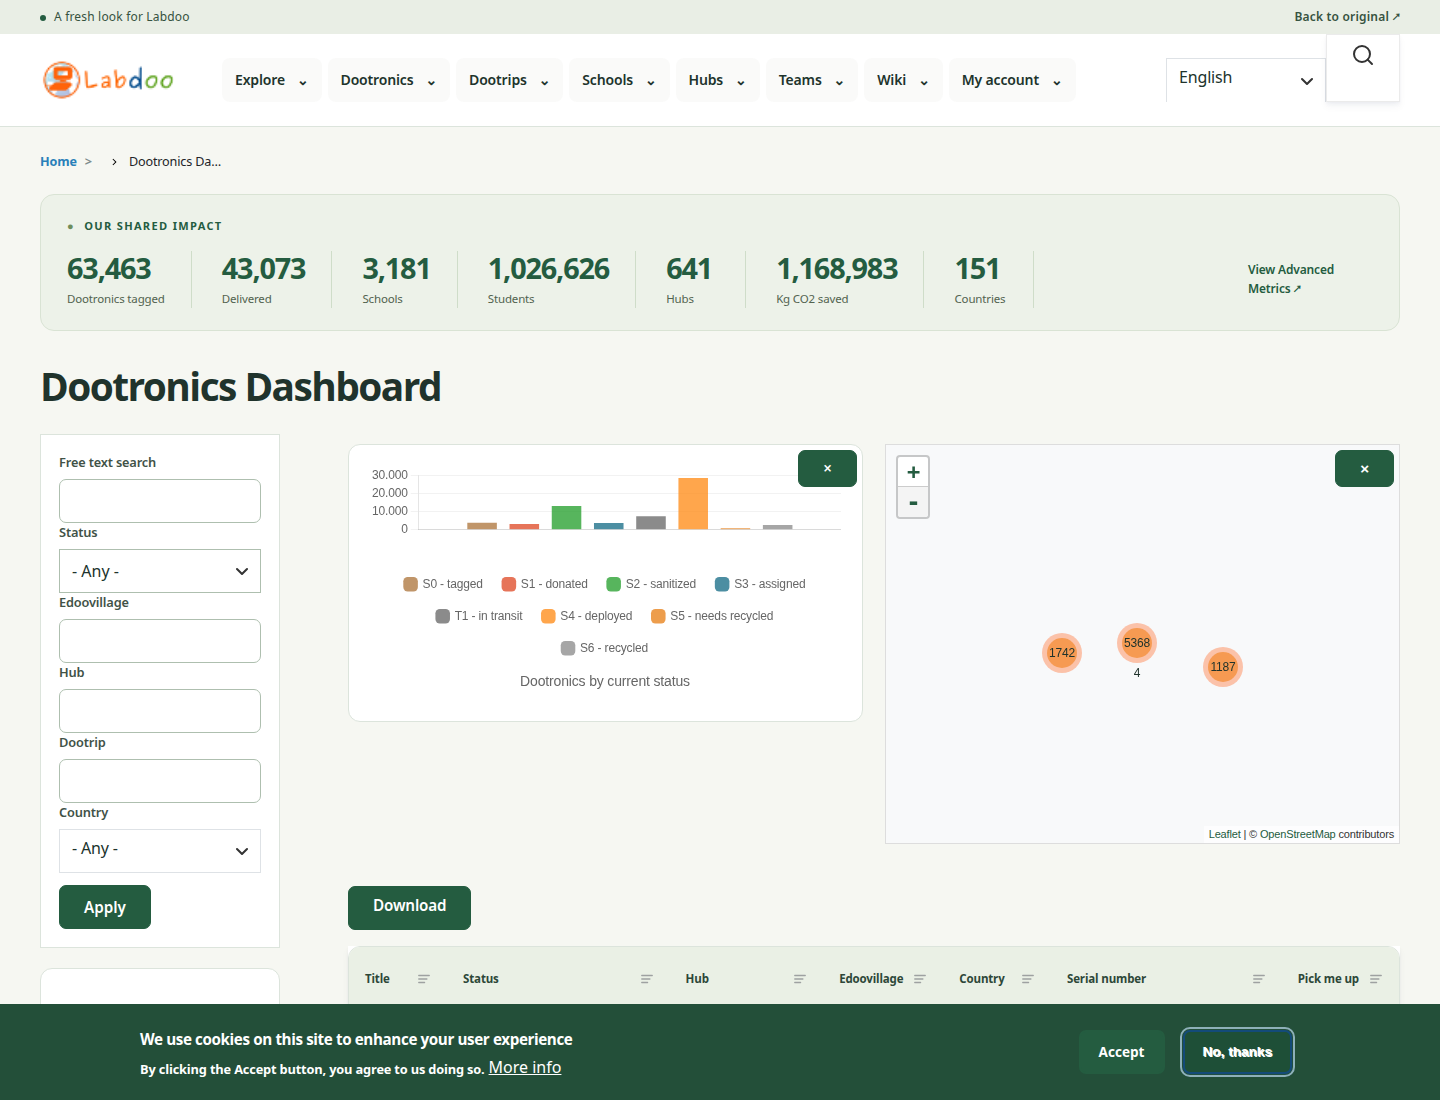
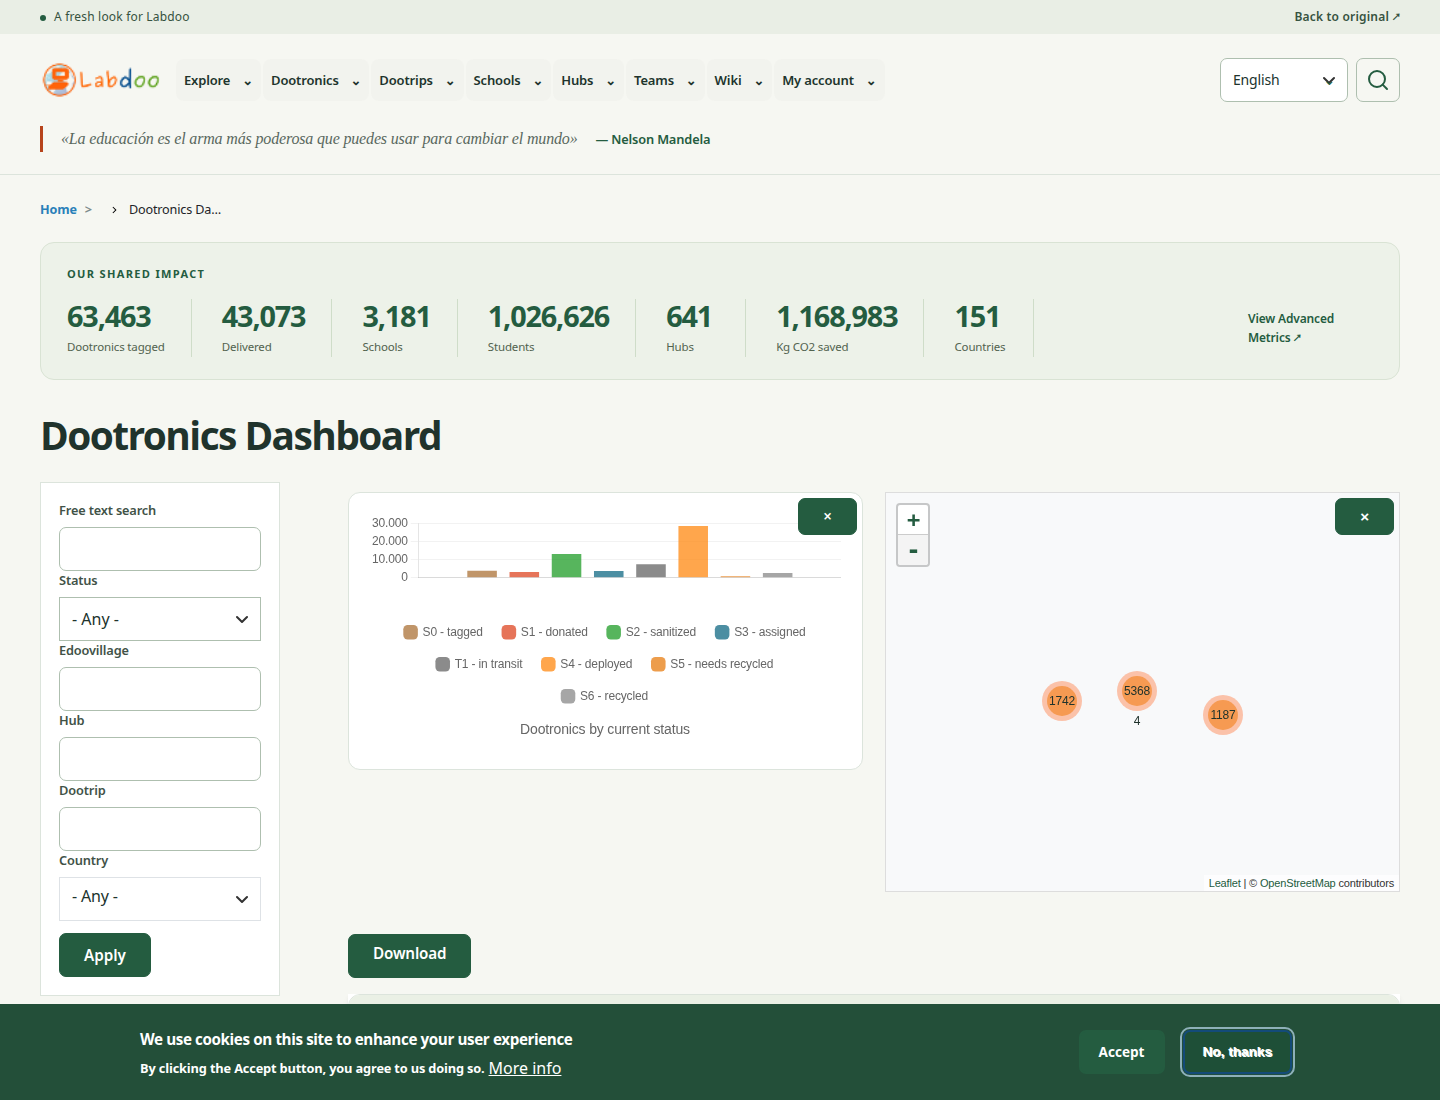
Refine Next header controls navigation and transparent footer

diff --git a/web/themes/custom/labdoo_next/css/labdoo-next.css b/web/themes/custom/labdoo_next/css/labdoo-next.css
@@ -68,21 +68,21 @@ body.labdoo-next {
   font-weight: 600;
 }
 .labdoo-next .ldn-header {
-  background: var(--ldn-paper);
+  background: var(--ldn-canvas) !important;
   border-bottom: 1px solid var(--ldn-line);
 }
 .labdoo-next .ldn-header__inner {
   min-height: 92px;
-  display: flex;
+  display: grid;
+  grid-template-columns: 120px minmax(0, 1fr) auto;
   align-items: center;
-  gap: 28px;
-  flex-wrap: wrap;
+  gap: 16px;
 }
 .labdoo-next .ldn-brand {
   display: inline-flex;
   align-items: center;
   flex-shrink: 0;
-  margin-inline-end: 20px;
+  margin-inline-end: 0;
 }
 .labdoo-next .ldn-quote {
   display: flex;
@@ -117,12 +117,12 @@ body.labdoo-next {
   white-space: nowrap;
 }
 .labdoo-next .ldn-brand img {
-  width: 134px;
+  width: 120px;
   height: auto;
   display: block;
 }
 .labdoo-next .ldn-navigation {
-  flex: 1;
+  min-width: 0;
 }
 .labdoo-next .ldn-navigation > .block {
   margin: 0;
@@ -135,8 +135,8 @@ body.labdoo-next {
   list-style: none;
   display: flex;
   align-items: center;
-  flex-wrap: wrap;
-  gap: 6px;
+  flex-wrap: nowrap;
+  gap: 2px;
   padding: 0;
   margin: 0;
 }
@@ -150,9 +150,9 @@ body.labdoo-next {
   align-items: center;
   justify-content: space-between;
   gap: 12px;
-  padding: 12px 13px;
+  padding: 11px 8px;
   color: var(--ldn-ink);
-  font-size: .875rem;
+  font-size: .8125rem;
   font-weight: 600;
   border-radius: 8px;
   text-decoration: none;
@@ -208,6 +208,107 @@ body.labdoo-next {
   background: transparent;
   box-shadow: none;
 }
+.labdoo-next .ldn-utilities {
+  display: flex;
+  align-items: center;
+  gap: 8px;
+}
+.labdoo-next .ldn-utilities > .block {
+  margin: 0;
+  padding: 0;
+  border: 0;
+  background: transparent;
+  box-shadow: none;
+}
+.labdoo-next .ldn-utilities .block-lang-dropdown {
+  order: 0;
+}
+.labdoo-next .ldn-utilities .lang-dropdown-form,
+.labdoo-next .ldn-utilities .lang-dropdown-form .form-item {
+  display: flex;
+  align-items: center;
+  margin: 0;
+  padding: 0;
+}
+.labdoo-next .ldn-utilities .lang-dropdown-select-element {
+  width: 128px !important;
+  min-width: 0;
+  height: 44px;
+  margin: 0;
+  background-color: transparent;
+  font-size: .875rem;
+}
+.labdoo-next .ldn-utilities .chosen-container {
+  width: 128px !important;
+  padding: 0;
+  border: 0;
+  background: transparent;
+}
+.labdoo-next .ldn-utilities .chosen-container-single .chosen-single {
+  width: 100%;
+  min-width: 0;
+  height: 44px !important;
+  line-height: 28px !important;
+  padding: 7px 32px 7px 12px !important;
+  border: 1px solid #aebfaf !important;
+  border-radius: 7px !important;
+  background: transparent;
+  box-shadow: none;
+  color: var(--ldn-ink);
+  font-size: .875rem;
+}
+.labdoo-next .ldn-utilities .chosen-single::after {
+  content: '⌄';
+  position: absolute;
+  inset-inline-end: 12px;
+  top: 50%;
+  transform: translateY(-50%);
+  color: var(--ldn-green);
+}
+.labdoo-next .ldn-utilities .chosen-single > div {
+  display: none;
+}
+.labdoo-next .ldn-utilities .chosen-drop {
+  background: #fff;
+  border: 1px solid var(--ldn-line);
+  border-radius: 7px;
+  box-shadow: 0 8px 24px #20332c1a;
+}
+.labdoo-next .ldn-utilities .chosen-results li.highlighted {
+  background: var(--ldn-green);
+  color: #fff;
+}
+.labdoo-next .ldn-utilities .search-overlay-block {
+  order: 1;
+  display: block;
+  width: 44px;
+  min-width: 44px;
+  margin: 0;
+  padding: 0;
+  border: 0;
+  border-radius: 0;
+  background: transparent;
+  box-shadow: none;
+}
+.labdoo-next .ldn-utilities .search-icon-wrapper {
+  margin: 0;
+  padding: 0;
+  background: transparent;
+  box-shadow: none;
+}
+.labdoo-next .ldn-utilities .search-icon-trigger {
+  display: flex;
+  align-items: center;
+  justify-content: center;
+  width: 44px;
+  height: 44px;
+  padding: 0;
+  border: 1px solid #aebfaf !important;
+  border-radius: 7px;
+  background: transparent;
+  color: var(--ldn-green);
+  box-shadow: none;
+}
 .labdoo-next .ldn-breadcrumb {
   padding-block: 22px 16px;
   font-size: .75rem;
@@ -232,10 +333,6 @@ body.labdoo-next {
   font-weight: 700;
   color: var(--ldn-green);
   margin-block-end: 16px;
-}
-.labdoo-next .ldn-section-label span {
-  color: #6e8e5b;
-  margin-inline-end: 5px;
 }
 .labdoo-next .ldn-metrics {
   display: flex;
@@ -604,13 +701,30 @@ body.labdoo-next {
 .labdoo-next .ldn-footer a {
   color: var(--ldn-green);
 }
+.labdoo-next .ldn-footer .footer-acts-container,
+.labdoo-next .ldn-footer .footer-acts-image {
+  background: transparent;
+}
 .labdoo-next :focus-visible {
-  outline: 3px solid #ae4b24;
+  outline: 2px solid var(--ldn-green);
   outline-offset: 3px;
 }
 .labdoo-next .ldn-site :focus-visible {
-  outline: 3px solid #ae4b24 !important;
+  outline: 2px solid var(--ldn-green) !important;
   outline-offset: 3px;
+}
+.labdoo-next .ldn-site input:focus,
+.labdoo-next .ldn-site select:focus,
+.labdoo-next .ldn-site textarea:focus {
+  outline: none !important;
+  border-color: var(--ldn-green) !important;
+  box-shadow: 0 0 0 2px #245c4024 !important;
+}
+.labdoo-next .ldn-utilities .chosen-single:focus,
+.labdoo-next .ldn-utilities .chosen-container-active .chosen-single {
+  outline: none !important;
+  border-color: var(--ldn-green) !important;
+  box-shadow: 0 0 0 2px #245c4024 !important;
 }
 /* The base theme uses important declarations for generic controls. */
 .labdoo-next .ldn-site .button,
@@ -698,6 +812,63 @@ body.labdoo-next {
   .labdoo-next .ldn-metric {
     padding-inline-end: 18px;
 }
+}
+@media (min-width: 1101px) and (max-width: 1280px) {
+  .labdoo-next .ldn-header__inner {
+    grid-template-columns: 1fr auto;
+    padding-block: 18px;
+    gap: 12px 20px;
+  }
+  .labdoo-next .ldn-brand {
+    grid-area: 1 / 1;
+  }
+  .labdoo-next .ldn-utilities {
+    grid-area: 1 / 2;
+  }
+  .labdoo-next .ldn-navigation {
+    grid-area: 2 / 1 / 3 / -1;
+  }
+}
+@media (max-width: 1100px) {
+  .labdoo-next .ldn-header__inner {
+    grid-template-columns: 1fr auto;
+    padding-block: 16px;
+    gap: 14px;
+  }
+  .labdoo-next .ldn-brand {
+    grid-area: 1 / 1;
+  }
+  .labdoo-next .ldn-menu-toggle {
+    grid-area: 1 / 2;
+  }
+  .js .labdoo-next .ldn-menu-toggle {
+    display: flex !important;
+    align-items: center;
+    gap: 14px;
+    padding: 10px 14px;
+    font: inherit;
+  }
+  .labdoo-next .ldn-utilities {
+    grid-area: 2 / 1 / 3 / -1;
+    justify-self: end;
+  }
+  .labdoo-next .ldn-navigation {
+    grid-area: 3 / 1 / 4 / -1;
+  }
+  .js .labdoo-next .ldn-navigation:not(.is-open) {
+    display: none;
+  }
+  .labdoo-next .ldn-navigation .ldn-menu {
+    display: block;
+  }
+  .labdoo-next .ldn-menu-group__panel {
+    position: static;
+    width: auto;
+    box-shadow: none;
+    margin-inline-start: 12px;
+    border: 0;
+    padding: 0;
+  }
 }
 @media (max-width: 800px) {
   .labdoo-next .ldn-header__inner {

diff --git a/tests/e2e/theme-preview.spec.ts b/tests/e2e/theme-preview.spec.ts
@@ -136,6 +136,38 @@ test.describe('progressive enhancement', () => {
 
 test.describe('administration and print boundaries', () => {
   test.use({ role: 'admin' });
+  test('complete admin navigation and header utilities fit without wrapping @responsive', async ({ page }, info) => {
+    await goto(page, '/en/node/749?theme=labdoo_next', info);
+    const header = page.locator('.ldn-header');
+    await expect(header.locator('summary', { hasText: 'Superhub users' })).toHaveCount(1);
+    for (const width of [1842, 1440, 1280, 1100, 800, 390]) {
+      await page.setViewportSize({ width, height: 1000 });
+      const language = page.locator('.ldn-utilities .chosen-single, .ldn-utilities select:visible').first();
+      const search = page.locator('.ldn-utilities .search-icon-trigger');
+      await expect(language).toBeVisible();
+      await expect(search).toBeVisible();
+      const l = (await language.boundingBox())!;
+      const s = (await search.boundingBox())!;
+      expect(Math.abs(l.y - s.y)).toBeLessThan(2);
+      expect(l.height).toBe(44);
+      expect(s.height).toBe(44);
+      expect(l.x + l.width).toBeLessThanOrEqual(s.x);
+      expect(s.x + s.width).toBeLessThanOrEqual(width);
+      if (width > 1100) {
+        const rows = await page.locator('#ldn-navigation .ldn-menu:not(.ldn-menu--nested) > li').evaluateAll(es => es.map(e => e.getBoundingClientRect().y));
+        expect(new Set(rows.map(y => Math.round(y))).size).toBe(1);
+        expect(await page.locator('#ldn-navigation').evaluate(e => e.scrollWidth <= e.clientWidth + 1)).toBe(true);
+      }
+      else {
+        await expect(page.getByRole('button', { name: 'Menu', exact: true })).toBeVisible();
+      }
+      expect(await page.evaluate(() => document.documentElement.scrollWidth <= innerWidth + 1)).toBe(true);
+    }
+    await expect(page.locator('.ldn-section-label')).toHaveText('Our shared impact');
+    await expect(page.locator('.ldn-section-label span')).toHaveCount(0);
+    await expect(page.locator('.footer-acts-image')).toHaveAttribute('src', /footer-acts-transparent\.png$/);
+    await languageFocus(page);
+  });
   test('admin routes and printable labels retain their existing themes', async ({ page }, info) => {
     await goto(page, '/en/admin/content?theme=labdoo_next', info);
     await expect(page.locator('body')).not.toHaveClass(/labdoo-next/);
@@ -144,3 +176,11 @@ test.describe('administration and print boundaries', () => {
     await expect(page.locator('body')).toHaveClass(/dootronics-print-label-page/);
   });
 });
+
+async function languageFocus(page: any) {
+  const select = page.locator('.ldn-utilities .chosen-single, .ldn-utilities select:visible').first();
+  await select.click();
+  await expect(select).toHaveCSS('outline-style', 'none');
+  await expect(select).toHaveCSS('border-top-color', 'rgb(36, 92, 64)');
+  await page.keyboard.press('Escape');
+}

diff --git a/web/themes/custom/labdoo_next/README.md b/web/themes/custom/labdoo_next/README.md
@@ -51,3 +51,5 @@ E2E_RUN_ID=theme-next npm test -- theme-preview.spec.ts regression.spec.ts dashb
 La comprobación visual de mapas valida su estructura; las pruebas aisladas controlan las solicitudes externas y no certifican el proveedor de mapas. Este tema no corrige ni migra los datos ausentes detectados en producción.
 
 Resultados del 08/11/2026: **50/50 pruebas aprobadas**, sin omisiones ni reintentos, en `theme-next-final`; tras ajustar el formato de las cifras en móvil, **17/17 comprobaciones responsive aprobadas** en `theme-next-responsive-final`. PHP, YAML y JavaScript validados; PHPCS Drupal/DrupalPractice sin errores en el módulo, helpers del tema y CSS nuevos. Capturas revisadas en 1440 px y 390 px. Los artefactos completos y los datos del laboratorio permanecen fuera de Git.
+
+Revisión de cabecera y footer del 09/11/2026: **26/26 E2E aprobadas** en `theme-next-header-verified`, sin omisiones ni reintentos. Menú de administración completo comprobado entre 390 y 1842 px, controles de idioma Chosen y búsqueda alineados, foco verde, etiqueta de impacto sin viñeta y footer con el recurso transparente existente. Se mantienen el número y el máximo ID de nodos, y el tema predeterminado.
